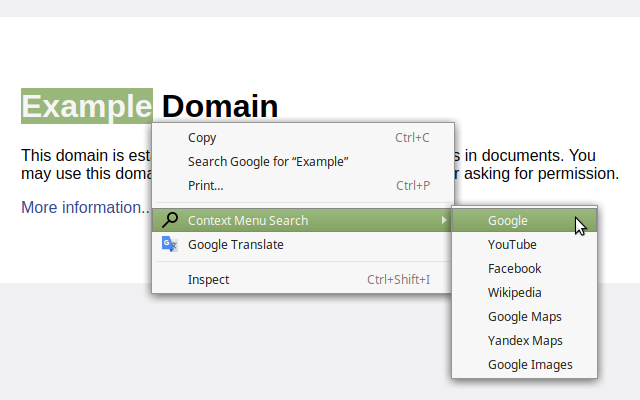
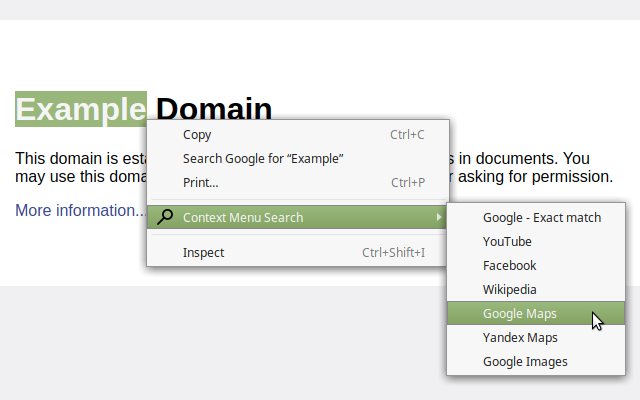
1.4.6 - new logic based on "chrome.storage.onChanged" event

Changed region(s): [[0.0, 0.21, 1.0, 0.96], [0.2812, 0.39, 0.5625, 0.42], [0.2812, 0.45, 0.3438, 0.48]]

diff --git a/js/options.js b/js/options.js
@@ -28,7 +28,7 @@ window.addEventListener('DOMContentLoaded', function () {
 
   chrome.storage.sync.get(null, function (storage) {
 
-    setFieldsets(storage);
+    setFieldsets(storage.fieldsets);
 
     if (document.querySelectorAll('.remove-fieldset-button').length === 1) {
       document.querySelector('.remove-fieldset-button').classList.add('hidden');
@@ -37,22 +37,26 @@ window.addEventListener('DOMContentLoaded', function () {
 
   });
 
-  function setFieldsets(storage) {
+  function setFieldsets(fieldsets) {
+
+    if (!fieldsets) {
+      return;
+    }
 
     // Remove old fieldsets
 
-    var fieldsets = listOfFieldsets.querySelectorAll('li');
-    for (var i = 0; i < fieldsets.length; i++) {
-      fieldsets[i].remove();
+    var oldFieldsets = listOfFieldsets.querySelectorAll('li');
+    for (var i = 0; i < oldFieldsets.length; i++) {
+      oldFieldsets[i].remove();
     }
 
     // Add new fieldsets
 
-    for (var index in storage.fieldsets) {
+    for (var index in fieldsets) {
       var fieldset = fieldsetTemplate.content.cloneNode(true);
-      if (storage.fieldsets.hasOwnProperty(index)) {
-        fieldset.querySelector('.name').value = storage.fieldsets[index].name;
-        fieldset.querySelector('.url').value = storage.fieldsets[index].url;
+      if (fieldsets.hasOwnProperty(index)) {
+        fieldset.querySelector('.name').value = fieldsets[index].name;
+        fieldset.querySelector('.url').value = fieldsets[index].url;
       }
       listOfFieldsets.insertBefore(fieldset, fieldsetTemplate);
     }
@@ -131,9 +135,6 @@ window.addEventListener('DOMContentLoaded', function () {
       setTimeout(function () {
         savedNotification.classList.add('hidden');
       }, 1000);
-      chrome.contextMenus.removeAll(function () {
-        app.methods.setContextMenuItems(data);
-      });
     });
 
   });
@@ -195,7 +196,7 @@ window.addEventListener('DOMContentLoaded', function () {
         var reader = new FileReader();
         reader.onload = function () {
           var storage = JSON.parse(reader.result);
-          setFieldsets(storage);
+          setFieldsets(storage.fieldsets);
           saveButton.click();
         };
         reader.readAsText(file);

diff --git a/js/event-page.js b/js/event-page.js
@@ -8,18 +8,31 @@
  * @property chrome.runtime
  * @property chrome.runtime.onInstalled
  * @property chrome.storage
+ * @property chrome.storage.onChanged
  * @property chrome.storage.sync
  */
 
-chrome.runtime.onInstalled.addListener(function() {
+chrome.runtime.onInstalled.addListener(function () {
+  // console.log('Installed');
   chrome.storage.sync.get(null, function (storage) {
+    // console.log('Storage:', storage);
     if (!storage.fieldsets) {
-      chrome.storage.sync.set(app.initialStorage, function () {
-        app.methods.setContextMenuItems(app.initialStorage);
-      });
-    } else {
-      app.methods.setContextMenuItems(storage);
+      chrome.storage.sync.set(app.initialStorage);
+    } else { // When the page reloads
+      app.methods.setContextMenuItems(storage.fieldsets);
     }
+  });
+});
+
+/**
+ * @param {Object} changes
+ * @param {Object} changes.fieldsets
+ * @param {Array} changes.fieldsets.newValue
+ */
+chrome.storage.onChanged.addListener(function (changes) {
+  // console.log('Storage changed:', changes);
+  chrome.contextMenus.removeAll(function () {
+    app.methods.setContextMenuItems(changes.fieldsets.newValue);
   });
 });
 
@@ -28,11 +41,9 @@ chrome.runtime.onInstalled.addListener(function() {
  * @param {String} info.menuItemId
  * @param {String} info.selectionText
  */
-function onClickHandler(info) {
+chrome.contextMenus.onClicked.addListener(function (info) {
   chrome.storage.sync.get(null, function (storage) {
     var url = storage.fieldsets[info.menuItemId].url;
     window.open(url.replace('%s', info.selectionText));
   });
-}
-
-chrome.contextMenus.onClicked.addListener(onClickHandler);
+});

diff --git a/js/common.js b/js/common.js
@@ -6,44 +6,43 @@ app.methods = {};
 
 app.initialStorage = {
   fieldsets: [{
-    name: 'Google',
+    name: 'Google - Exact match',
     url: 'https://google.com/search?q="%s"'
-  },{
+  }, {
     name: 'YouTube',
     url: 'https://youtube.com/results?search_query=%s'
-  },{
+  }, {
     name: 'Facebook',
     url: 'https://facebook.com/search?q=%s'
-  },{
+  }, {
     name: 'Wikipedia',
     url: 'https://wikipedia.org/wiki/%s'
-  },{
+  }, {
     name: 'Google Maps',
     url: 'https://google.com/maps/search/%s'
-  },{
+  }, {
     name: 'Yandex Maps',
     url: 'https://yandex.com/maps?text=%s'
-  },{
+  }, {
     name: 'Google Images',
     url: 'https://google.com/search?q=%s&tbm=isch'
   }]
 };
 
 /**
- * @param {Object} storage
- * @param {Array}  storage.fieldsets
+ * @param {Array} fieldsets
  */
-app.methods.setContextMenuItems = function (storage) {
-  for (var index in storage.fieldsets) {
+app.methods.setContextMenuItems = function (fieldsets) {
+  for (var index in fieldsets) {
     if (
-      storage.fieldsets.hasOwnProperty(index) &&
-      storage.fieldsets[index].name &&
-      storage.fieldsets[index].url
+      fieldsets.hasOwnProperty(index) &&
+      fieldsets[index].name &&
+      fieldsets[index].url
     ) {
       chrome.contextMenus.create({
         id: index,
-        title: storage.fieldsets[index].name,
-        contexts:['selection']
+        title: fieldsets[index].name,
+        contexts: ['selection']
       });
     }
   }
